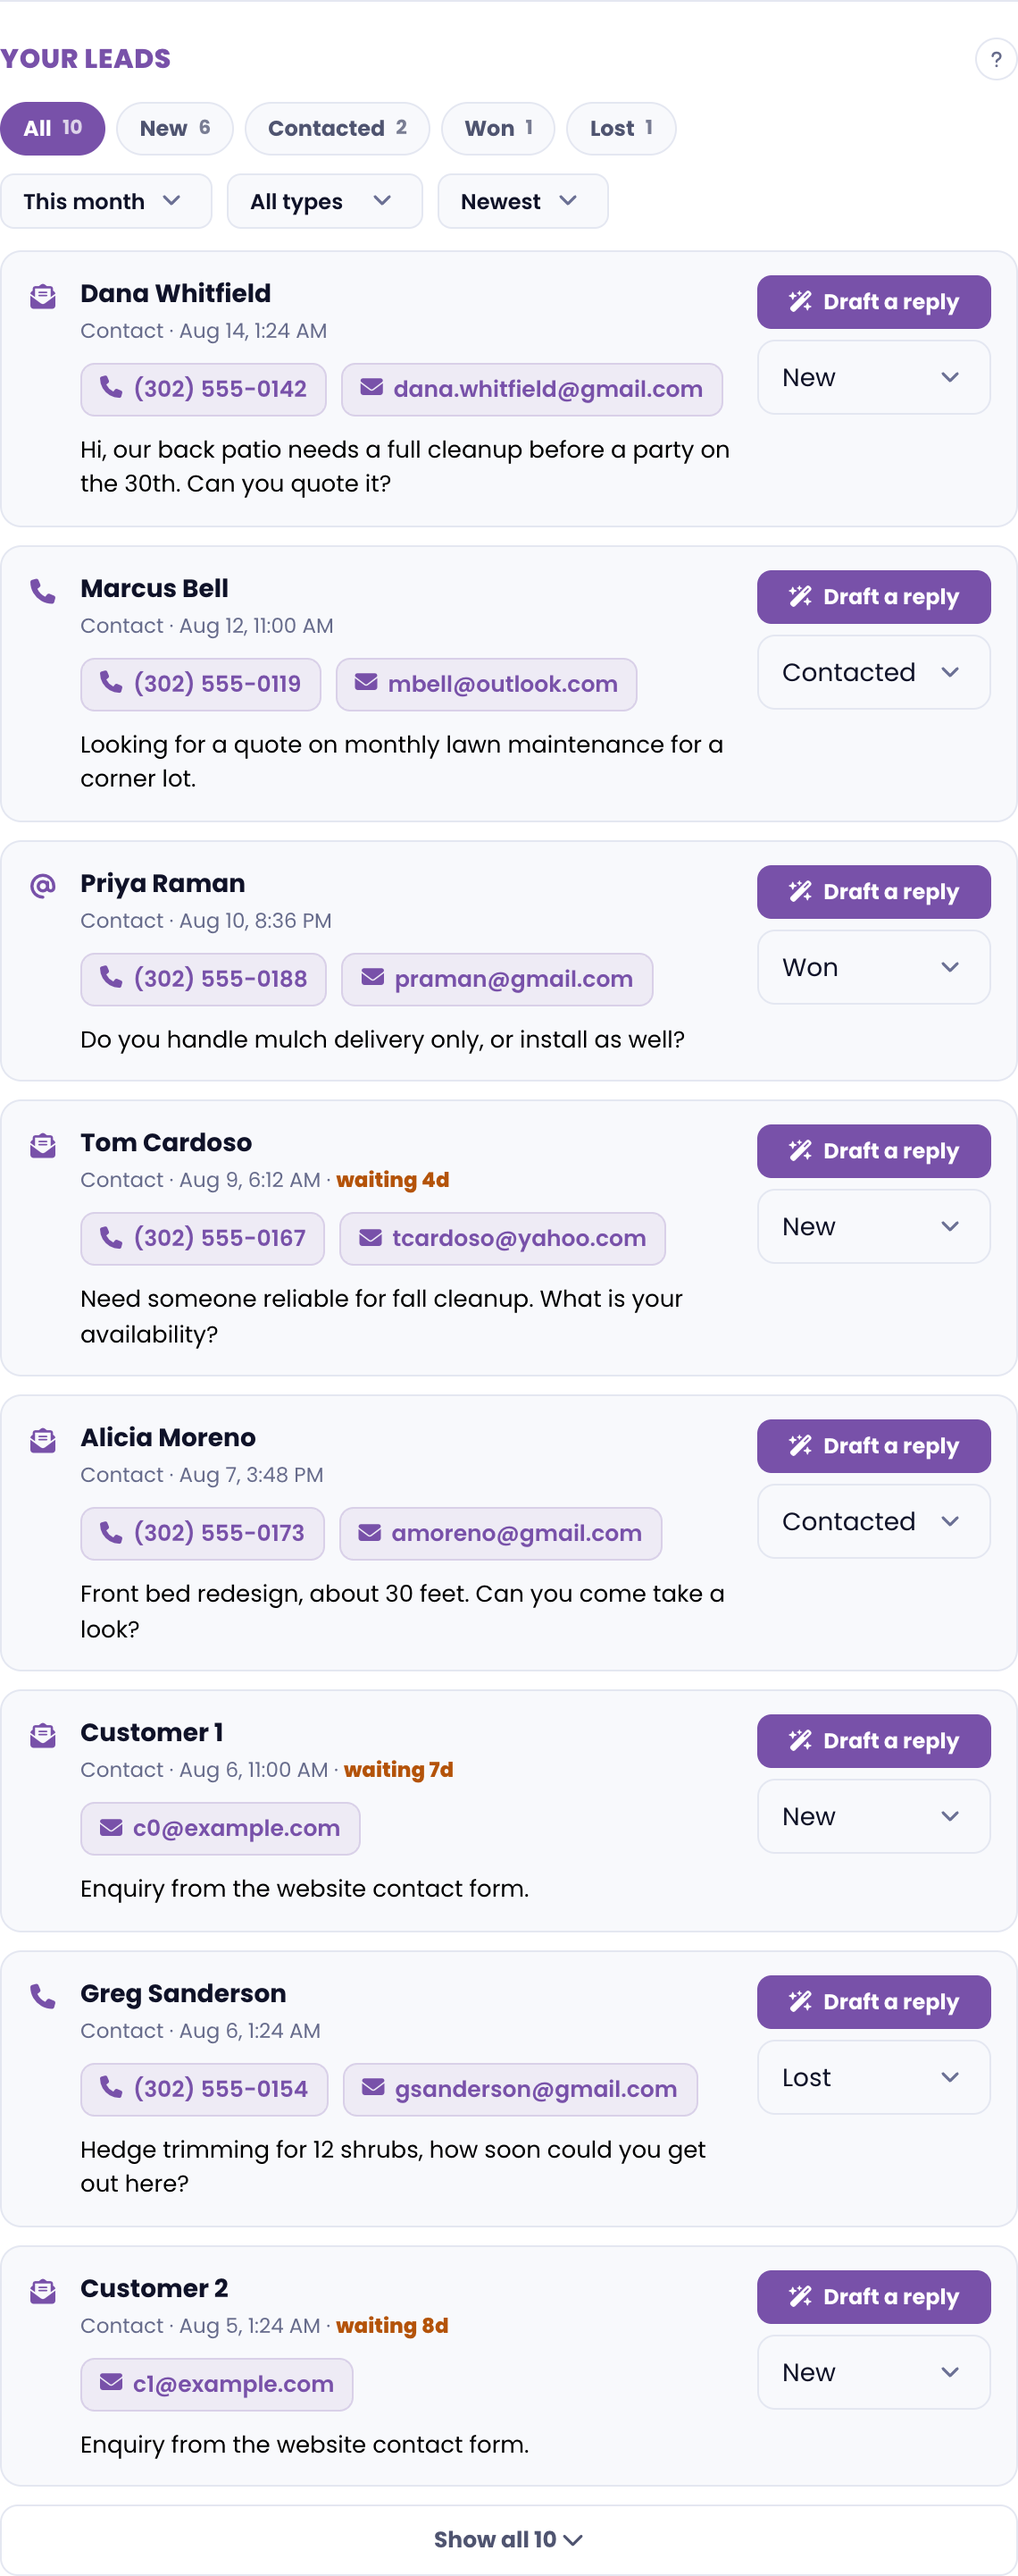
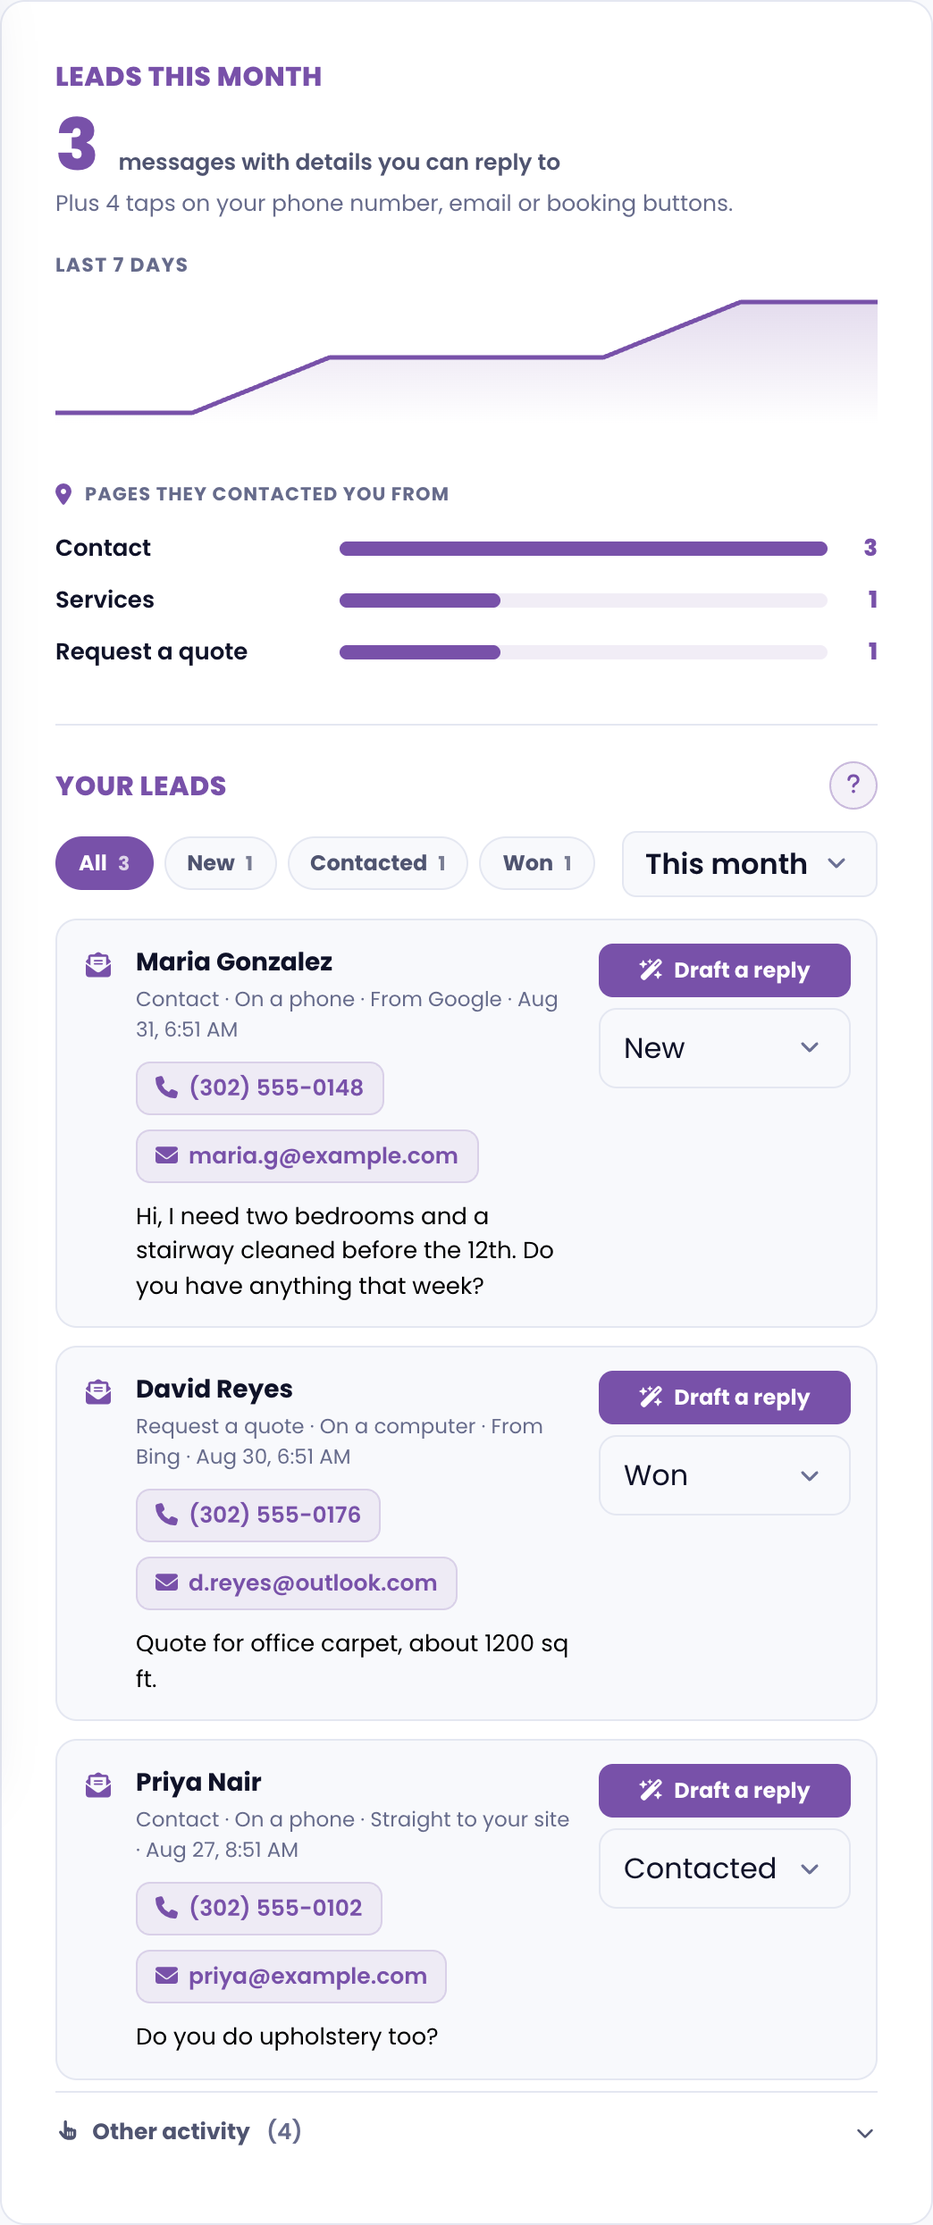
Rewrite the leads help article for the split Leads page
The Leads page no longer treats a tap on a phone number the same as a
message someone actually wrote. Messages, which carry a name, number and
question, are counted in the headline and listed as cards; taps are
grouped under "Other activity" because there is nobody on the other end
of them to reply to.

The article still described the old behaviour: it listed all four event
types as equal leads, and told people to select "Mark contacted", which
has been a New/Contacted/Won/Lost status for a while.

Adds a section explaining what Other activity is and what the timestamp
is good for, and replaces the screenshot, which showed the old layout.

diff --git a/help/understanding-your-leads/index.html b/help/understanding-your-leads/index.html
@@ -4,18 +4,18 @@
 <meta charset="UTF-8" />
 <meta name="viewport" content="width=device-width, initial-scale=1" />
 <title>Understanding your website leads | WebEaze Help</title>
-<meta name="description" content="What a lead is, how your website captures calls, emails, and form messages, where to find them, and how to follow up fast with AI-drafted replies." />
+<meta name="description" content="The difference between a message and a tap, where to find both in your portal, and how to follow up fast with AI-drafted replies." />
 <link rel="canonical" href="https://webeaze.io/help/understanding-your-leads/" />
 <meta name="robots" content="index, follow" />
 <meta property="og:type" content="article" />
 <meta property="og:site_name" content="WebEaze" />
 <meta property="og:title" content="Understanding your website leads | WebEaze Help" />
-<meta property="og:description" content="What a lead is, how your website captures calls, emails, and form messages, where to find them, and how to follow up fast with AI-drafted replies." />
+<meta property="og:description" content="The difference between a message and a tap, where to find both in your portal, and how to follow up fast with AI-drafted replies." />
 <meta property="og:url" content="https://webeaze.io/help/understanding-your-leads/" />
 <meta property="og:image" content="https://webeaze.io/images/webeaze-transparent.png" />
 <meta name="twitter:card" content="summary_large_image" />
 <meta name="twitter:title" content="Understanding your website leads | WebEaze Help" />
-<meta name="twitter:description" content="What a lead is, how your website captures calls, emails, and form messages, where to find them, and how to follow up fast with AI-drafted replies." />
+<meta name="twitter:description" content="The difference between a message and a tap, where to find both in your portal, and how to follow up fast with AI-drafted replies." />
 <meta name="twitter:image" content="https://webeaze.io/images/webeaze-transparent.png" />
 <link rel="shortcut icon" href="../../images/webeaze-transparent-copy.png" type="image/png" />
 <link rel="preconnect" href="https://fonts.googleapis.com" />
@@ -24,7 +24,7 @@
 <link rel="stylesheet" href="https://cdnjs.cloudflare.com/ajax/libs/font-awesome/6.5.1/css/all.min.css" />
 <link rel="stylesheet" href="../../css/nav.css" />
 <link rel="stylesheet" href="../../css/help-article.css" />
-<script type="application/ld+json">{"@context":"https://schema.org","@type":"Article","headline":"Understanding your website leads","description":"What a lead is, how your website captures calls, emails, and form messages, where to find them, and how to follow up fast with AI-drafted replies.","datePublished":"2026-08-10","dateModified":"2026-08-10","author":{"@type":"Organization","name":"WebEaze"},"publisher":{"@type":"Organization","name":"WebEaze","logo":{"@type":"ImageObject","url":"https://webeaze.io/images/webeaze-transparent.png"}},"mainEntityOfPage":"https://webeaze.io/help/understanding-your-leads/","inLanguage":"en-US"}</script>
+<script type="application/ld+json">{"@context":"https://schema.org","@type":"Article","headline":"Understanding your website leads","description":"The difference between a message and a tap, where to find both in your portal, and how to follow up fast with AI-drafted replies.","datePublished":"2026-08-30","dateModified":"2026-08-30","author":{"@type":"Organization","name":"WebEaze"},"publisher":{"@type":"Organization","name":"WebEaze","logo":{"@type":"ImageObject","url":"https://webeaze.io/images/webeaze-transparent.png"}},"mainEntityOfPage":"https://webeaze.io/help/understanding-your-leads/","inLanguage":"en-US"}</script>
 <script type="application/ld+json">{"@context":"https://schema.org","@type":"BreadcrumbList","itemListElement":[{"@type":"ListItem","position":1,"name":"Home","item":"https://webeaze.io/"},{"@type":"ListItem","position":2,"name":"Help Center","item":"https://webeaze.io/help"},{"@type":"ListItem","position":3,"name":"Client Portal","item":"https://webeaze.io/help?topic=client-portal"},{"@type":"ListItem","position":4,"name":"Understanding your website leads","item":"https://webeaze.io/help/understanding-your-leads/"}]}</script>
 </head>
 <body>
@@ -100,45 +100,46 @@
     <header class="article-header">
       <h1>Understanding your website leads</h1>
       <div class="meta">
-        <i class="fas fa-clock"></i> Last updated: 08-10-2026
-        &nbsp;&nbsp;<span class="read-time"><i class="fas fa-book-open"></i> 3 min read</span>
+        <i class="fas fa-clock"></i> Last updated: 08-30-2026
+        &nbsp;&nbsp;<span class="read-time"><i class="fas fa-book-open"></i> 4 min read</span>
       </div>
     </header>
-    <nav class="article-toc"><p class="toc-label">On this page</p><ul><li><a href="#toc-0">What counts as a lead</a></li><li><a href="#toc-1">Where to find your leads</a></li><li><a href="#toc-2">Follow up in one tap</a></li><li><a href="#toc-3">Your daily lead summary</a></li><li><a href="#toc-4">Growth and Essential plans</a></li><li><a href="#toc-5">I don't see any leads</a></li></ul></nav>
+    <nav class="article-toc"><p class="toc-label">On this page</p><ul><li><a href="#toc-0">The two kinds of lead</a></li><li><a href="#toc-1">Where to find your leads</a></li><li><a href="#toc-2">Follow up in one tap</a></li><li><a href="#toc-3">Other activity</a></li><li><a href="#toc-4">Your daily lead summary</a></li><li><a href="#toc-5">Growth and Essential plans</a></li><li><a href="#toc-6">I don't see any leads</a></li></ul></nav>
     <section class="article-body">
 <p>Your website is one of your best salespeople. Every time someone reaches out through it, we count that as a <strong>lead</strong> and show it to you in <a href="https://portal.webeaze.io/#leads">your portal</a>.</p>
 
-          <h2 id="toc-0">What counts as a lead</h2>
-          <p>A lead is any real sign of interest from a visitor on your site. We track these automatically:</p>
-          <ul>
-            <li><strong>Contact form messages</strong>, including the name, phone, email, and message they sent.</li>
-            <li><strong>Clicks to call</strong>, when someone taps your phone number to ring you.</li>
-            <li><strong>Clicks to email</strong>, when someone taps your email address.</li>
-            <li><strong>Booking or quote clicks</strong>, when someone heads to your booking, quote, or consultation page.</li>
-          </ul>
-          
+          <h2 id="toc-0">The two kinds of lead</h2>
+          <p>Not everything a visitor does leaves you someone to reply to, so your Leads page keeps the two apart.</p>
+          <p><strong>Messages</strong> are people who left their details. A contact form gives you their name, phone, email and what they asked for, so you can answer them directly. These are the ones worth acting on, and they are what the big number on your Leads page counts.</p>
+          <p><strong>Taps</strong> are the other signals we pick up: someone tapping your phone number to ring you, tapping your email address, or tapping a booking or quote button. They tell you somebody was interested, but they carry no name and no number, so there is nobody to write back to. You will find these grouped under <strong>Other activity</strong> at the bottom of the page.</p>
+          <div class="alert alert-info mt-2"><strong>Why we split them.</strong> A tap on your phone number is a footprint, not a message. Counting it next to a real inquiry made your total look bigger than the number of people you could actually call back.</div>
 
           <h2 id="toc-1">Where to find your leads</h2>
-          <p>Open your portal and select <img src="../../images/assets/menu-button.png" alt="Menu" style="height:1.6em;width:auto;display:inline-block;vertical-align:middle;margin:0 5px;"> &gt; <strong>Leads</strong>. You will also see a quick "Leads this month" count on your home page.</p>
-          <img src="../../images/assets/leads-page.png" alt="Your leads in the portal, showing each person who reached out with their details and a Draft a reply button" onerror="this.style.display='none'" />
-          <p>Each lead shows who reached out, how they found you, and when, so you know exactly who to follow up with first.</p>
+          <p>Open your portal and select <img src="../../images/assets/menu-button.png" alt="Menu" style="height:1.6em;width:auto;display:inline-block;vertical-align:middle;margin:0 5px;"> &gt; <strong>Leads</strong>. You will also see a quick count on your home page.</p>
+          <img src="../../images/assets/leads-page.png" alt="The Leads page in the portal, showing each person who sent a message with their details and a Draft a reply button" onerror="this.style.display='none'" />
+          <p>The number at the top is your <strong>messages</strong> this month, the ones with details you can reply to. Just underneath, we tell you how many taps came in as well.</p>
+          <p>Every message shows who reached out, which page they were on, whether they were on a phone or a computer, where they found you, and when. That is usually enough to know who to ring first.</p>
 
           <h2 id="toc-2">Follow up in one tap</h2>
-          <p>For every lead, the portal tells you the best next step and gives you a head start:</p>
+          <p>For every message, the portal gives you a head start:</p>
           <ul>
             <li>Tap the phone number or email to <strong>call or message them</strong> right away.</li>
-            <li>Select <strong>Draft a reply</strong> and we write a warm, ready-to-send response tailored to how they reached out. Copy it, or open it straight in your email with one tap, then edit and send.</li>
-            <li>Once you have reached out, select <strong>Mark contacted</strong> so you always know who still needs a reply.</li>
+            <li>Select <strong>Draft a reply</strong> and we write a warm, ready-to-send response tailored to what they asked. Copy it, or open it straight in your email with one tap, then edit and send.</li>
+            <li>As you work through them, set each one to <strong>Contacted</strong>, <strong>Won</strong> or <strong>Lost</strong>, so you can always see at a glance who is still waiting on you.</li>
           </ul>
-          <div class="alert alert-info mt-2"><strong>Speed wins.</strong> The faster you follow up, the more likely you are to win customers.</div>
+          <div class="alert alert-info mt-2"><strong>Speed wins.</strong> The faster you follow up, the more likely you are to win the customer.</div>
 
-          <h2 id="toc-3">Your daily lead summary</h2>
+          <h2 id="toc-3">Other activity</h2>
+          <p>Open <strong>Other activity</strong> to see every tap on your phone number, email address or booking buttons, with the page it happened on and the time.</p>
+          <p>There is nothing to reply to here, but the time is the useful part. If someone tapped your number at 8:41 and you have a missed call around then, that is the one worth chasing.</p>
+
+          <h2 id="toc-4">Your daily lead summary</h2>
           <p>Once a day after working hours, we'll email you a summary of the leads your website brought in that day. </p>
           
           <p>If you're on a Growth plan, you get a ready-to-send reply in that email, so you can follow up without even opening the portal.</p>
          
 
-          <h2 id="toc-4">Growth and Essential plans</h2>
+          <h2 id="toc-5">Growth and Essential plans</h2>
           <p>Both plans include a Leads overview. </p>
           <p>If you're on a <strong>Growth</strong> plan, you also receive the full <strong>lead inbox</strong> which includes:</p>
 
@@ -150,7 +151,7 @@
             
           
 
-          <h2 id="toc-5">I don't see any leads</h2>
+          <h2 id="toc-6">I don't see any leads</h2>
           <p>Lead tracking is switched on for you when your site goes live if we built it.</p>
             
             <p>You may not see the Leads tab available in your portal if you joined with an existing website. <a href="https://portal.webeaze.io/">Submit a request</a> to get your leads set up.</p>

diff --git a/help.html b/help.html
@@ -8109,40 +8109,41 @@ src="https://www.facebook.com/tr?id=906444072428558&ev=PageView&noscript=1"
 
         ` },
 
-        { slug: 'understanding-your-leads', title: 'Understanding your website leads', updated: '08-10-2026', meta: 'What a lead is, how your website captures calls, emails, and form messages, where to find them, and how to follow up fast with AI-drafted replies.', body: `
+        { slug: 'understanding-your-leads', title: 'Understanding your website leads', updated: '08-30-2026', meta: 'The difference between a message and a tap, where to find both in your portal, and how to follow up fast with AI-drafted replies.', body: `
 <p>Your website is one of your best salespeople. Every time someone reaches out through it, we count that as a <strong>lead</strong> and show it to you in <a href="https://portal.webeaze.io/#leads">your portal</a>.</p>
 
-          <h2 id="toc-0">What counts as a lead</h2>
-          <p>A lead is any real sign of interest from a visitor on your site. We track these automatically:</p>
-          <ul>
-            <li><strong>Contact form messages</strong>, including the name, phone, email, and message they sent.</li>
-            <li><strong>Clicks to call</strong>, when someone taps your phone number to ring you.</li>
-            <li><strong>Clicks to email</strong>, when someone taps your email address.</li>
-            <li><strong>Booking or quote clicks</strong>, when someone heads to your booking, quote, or consultation page.</li>
-          </ul>
-          
+          <h2>The two kinds of lead</h2>
+          <p>Not everything a visitor does leaves you someone to reply to, so your Leads page keeps the two apart.</p>
+          <p><strong>Messages</strong> are people who left their details. A contact form gives you their name, phone, email and what they asked for, so you can answer them directly. These are the ones worth acting on, and they are what the big number on your Leads page counts.</p>
+          <p><strong>Taps</strong> are the other signals we pick up: someone tapping your phone number to ring you, tapping your email address, or tapping a booking or quote button. They tell you somebody was interested, but they carry no name and no number, so there is nobody to write back to. You will find these grouped under <strong>Other activity</strong> at the bottom of the page.</p>
+          <div class="alert alert-info mt-2"><strong>Why we split them.</strong> A tap on your phone number is a footprint, not a message. Counting it next to a real inquiry made your total look bigger than the number of people you could actually call back.</div>
 
-          <h2 id="toc-1">Where to find your leads</h2>
-          <p>Open your portal and select <img src="../../images/assets/menu-button.png" alt="Menu" style="height:1.6em;width:auto;display:inline-block;vertical-align:middle;margin:0 5px;"> &gt; <strong>Leads</strong>. You will also see a quick "Leads this month" count on your home page.</p>
-          <img src="../../images/assets/leads-page.png" alt="Your leads in the portal, showing each person who reached out with their details and a Draft a reply button" onerror="this.style.display='none'" />
-          <p>Each lead shows who reached out, how they found you, and when, so you know exactly who to follow up with first.</p>
+          <h2>Where to find your leads</h2>
+          <p>Open your portal and select <img src="../../images/assets/menu-button.png" alt="Menu" style="height:1.6em;width:auto;display:inline-block;vertical-align:middle;margin:0 5px;"> &gt; <strong>Leads</strong>. You will also see a quick count on your home page.</p>
+          <img src="../../images/assets/leads-page.png" alt="The Leads page in the portal, showing each person who sent a message with their details and a Draft a reply button" onerror="this.style.display='none'" />
+          <p>The number at the top is your <strong>messages</strong> this month, the ones with details you can reply to. Just underneath, we tell you how many taps came in as well.</p>
+          <p>Every message shows who reached out, which page they were on, whether they were on a phone or a computer, where they found you, and when. That is usually enough to know who to ring first.</p>
 
-          <h2 id="toc-2">Follow up in one tap</h2>
-          <p>For every lead, the portal tells you the best next step and gives you a head start:</p>
+          <h2>Follow up in one tap</h2>
+          <p>For every message, the portal gives you a head start:</p>
           <ul>
             <li>Tap the phone number or email to <strong>call or message them</strong> right away.</li>
-            <li>Select <strong>Draft a reply</strong> and we write a warm, ready-to-send response tailored to how they reached out. Copy it, or open it straight in your email with one tap, then edit and send.</li>
-            <li>Once you have reached out, select <strong>Mark contacted</strong> so you always know who still needs a reply.</li>
+            <li>Select <strong>Draft a reply</strong> and we write a warm, ready-to-send response tailored to what they asked. Copy it, or open it straight in your email with one tap, then edit and send.</li>
+            <li>As you work through them, set each one to <strong>Contacted</strong>, <strong>Won</strong> or <strong>Lost</strong>, so you can always see at a glance who is still waiting on you.</li>
           </ul>
-          <div class="alert alert-info mt-2"><strong>Speed wins.</strong> The faster you follow up, the more likely you are to win customers.</div>
+          <div class="alert alert-info mt-2"><strong>Speed wins.</strong> The faster you follow up, the more likely you are to win the customer.</div>
 
-          <h2 id="toc-3">Your daily lead summary</h2>
+          <h2>Other activity</h2>
+          <p>Open <strong>Other activity</strong> to see every tap on your phone number, email address or booking buttons, with the page it happened on and the time.</p>
+          <p>There is nothing to reply to here, but the time is the useful part. If someone tapped your number at 8:41 and you have a missed call around then, that is the one worth chasing.</p>
+
+          <h2>Your daily lead summary</h2>
           <p>Once a day after working hours, we'll email you a summary of the leads your website brought in that day. </p>
           
           <p>If you're on a Growth plan, you get a ready-to-send reply in that email, so you can follow up without even opening the portal.</p>
          
 
-          <h2 id="toc-4">Growth and Essential plans</h2>
+          <h2>Growth and Essential plans</h2>
           <p>Both plans include a Leads overview. </p>
           <p>If you're on a <strong>Growth</strong> plan, you also receive the full <strong>lead inbox</strong> which includes:</p>
 
@@ -8154,7 +8155,7 @@ src="https://www.facebook.com/tr?id=906444072428558&ev=PageView&noscript=1"
             
           
 
-          <h2 id="toc-5">I don't see any leads</h2>
+          <h2>I don't see any leads</h2>
           <p>Lead tracking is switched on for you when your site goes live if we built it.</p>
             
             <p>You may not see the Leads tab available in your portal if you joined with an existing website. <a href="https://portal.webeaze.io/">Submit a request</a> to get your leads set up.</p>
